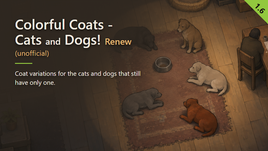
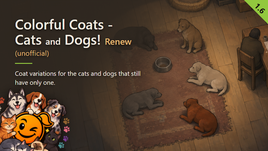
Composite cutout ModIcon into Preview.png bottom-left corner, add gallery 00-preview
Cutout via new _tools/cutout-icon.cjs (flood-fill from border, model:
ManyHappyReturns/_tools/cutout-icon.cjs), trimmed to bounding box. Preview.html
gets a .icon overlay at bottom-left, +15deg tilt, bleeding past left/bottom
edges. Art/Workshop/00-preview.png is now the gallery-numbering copy of
Preview.png, per the new vitrine convention.

Changed region(s): [[0.0, 0.5828, 0.2687, 1.0]]

diff --git a/Art/preview.html b/Art/preview.html
@@ -12,10 +12,12 @@ h1 .link-word,h1 .suffix{font-size:.65em}h1 .suffix{color:var(--inkSecondary)}
 .badge{position:absolute;right:0;top:0;width:80px;height:80px;background:var(--accent);clip-path:polygon(0 0,100% 0,100% 100%)}
 .version{position:absolute;left:869px;top:27px;transform:translate(-50%,-50%) rotate(45deg);font-size:26px;font-weight:700;line-height:1;color:var(--badgeInk)}
 .background-only h1,.background-only .tag,.background-only .summary,.background-only .version{visibility:hidden}
+.icon{position:absolute;left:-35px;bottom:-35px;width:270px;height:auto;transform:rotate(15deg);filter:drop-shadow(0 6px 16px rgba(0,0,0,.6))}
 </style>
 <img class="art" src="Preview.png"><div class="veil"></div>
 <div class="copy"><h1 id="title"></h1><div class="tag" id="tag"></div><div class="rule"></div><p class="summary">Coat variations for the cats and dogs that still have only one.</p></div>
 <div class="badge"></div><div class="version" id="version"></div>
+<img class="icon" src="ModIcon-cutout.png">
 <script>
 window.ready=(async()=>{
 const palette=await(await fetch('preview-palette.json')).json();
